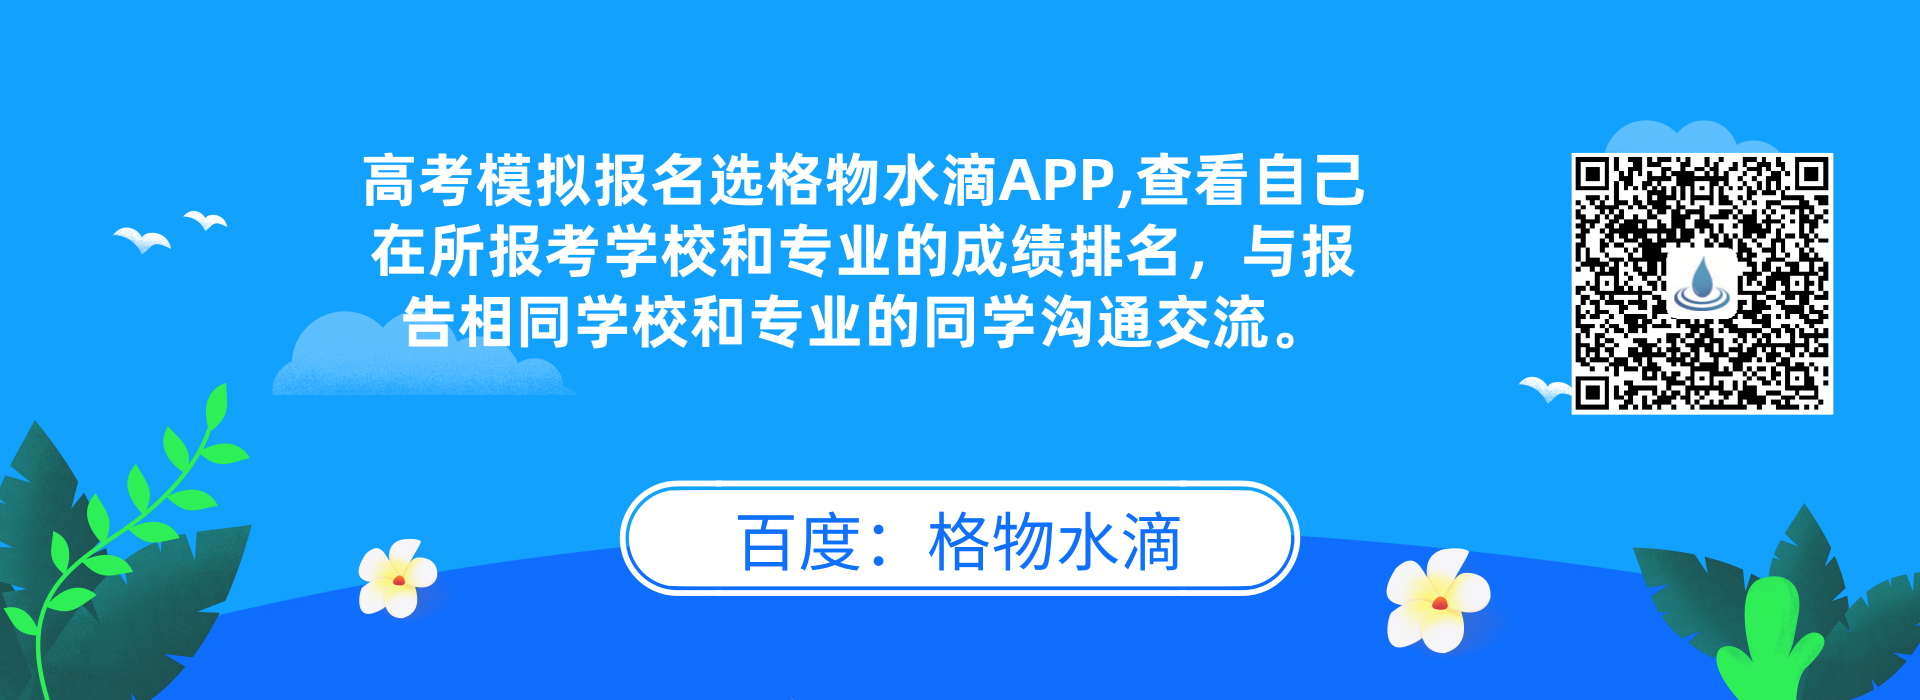
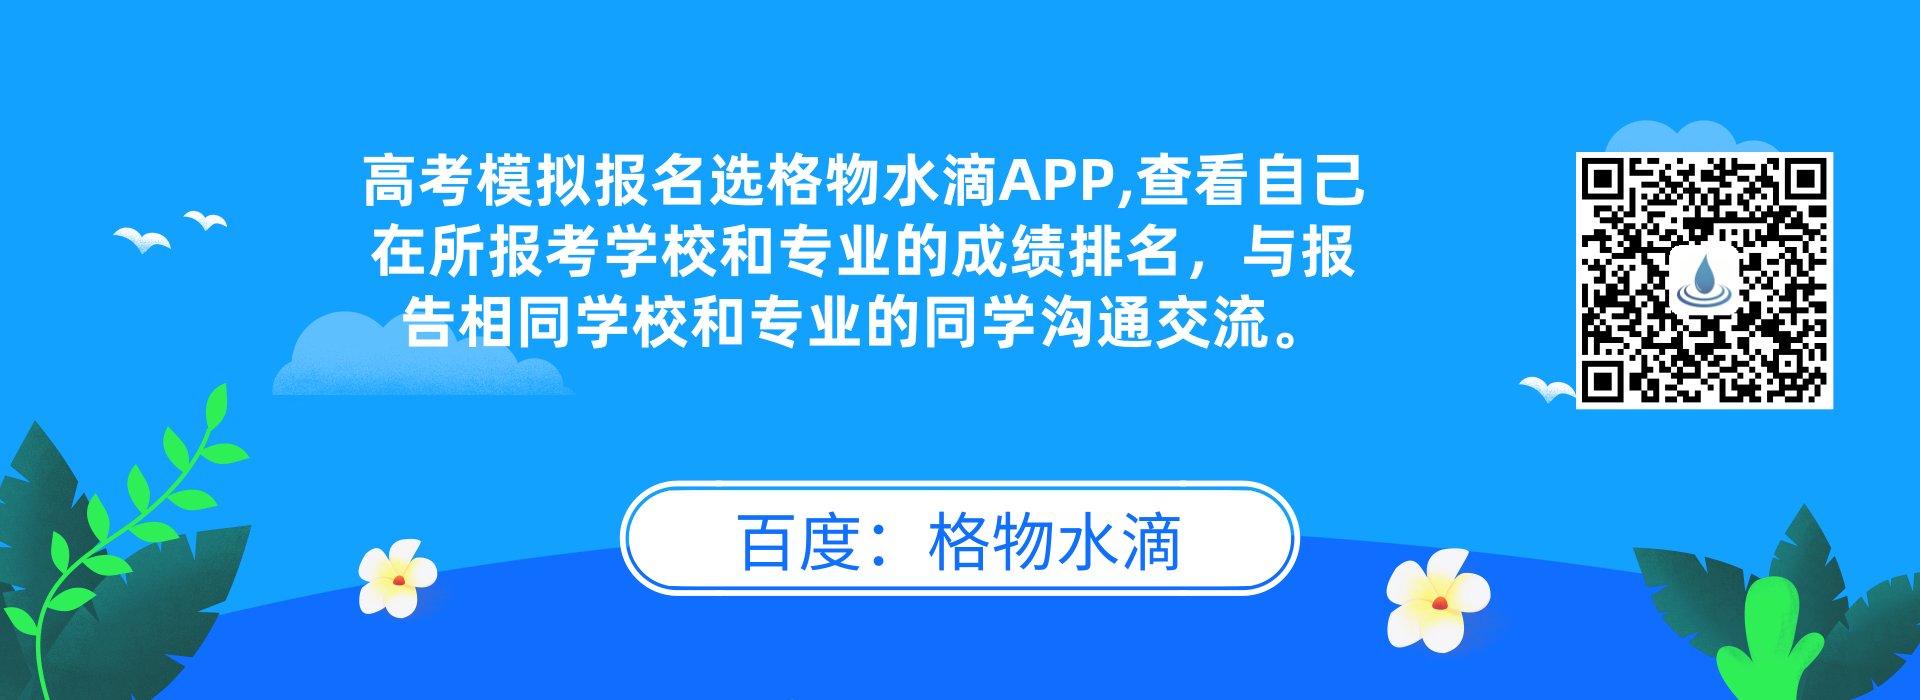
haibao

Changed region(s): [[0.8125, 0.21, 0.9688, 0.6]]

diff --git a/src/components/Instruction.js b/src/components/Instruction.js
@@ -118,7 +118,7 @@ class Instruction extends React.Component{
                 <Card
                     hoverable
                     style={{ width: 400}}
-                    cover={<img alt="example" src={require('../../src/assets/2-2.png')} />}
+                    cover={<img alt="example" src={require('../../src/assets/sdapp.png')} />}
                 >
                     <Meta title="3.扫码下载" description="" />
                 </Card>
